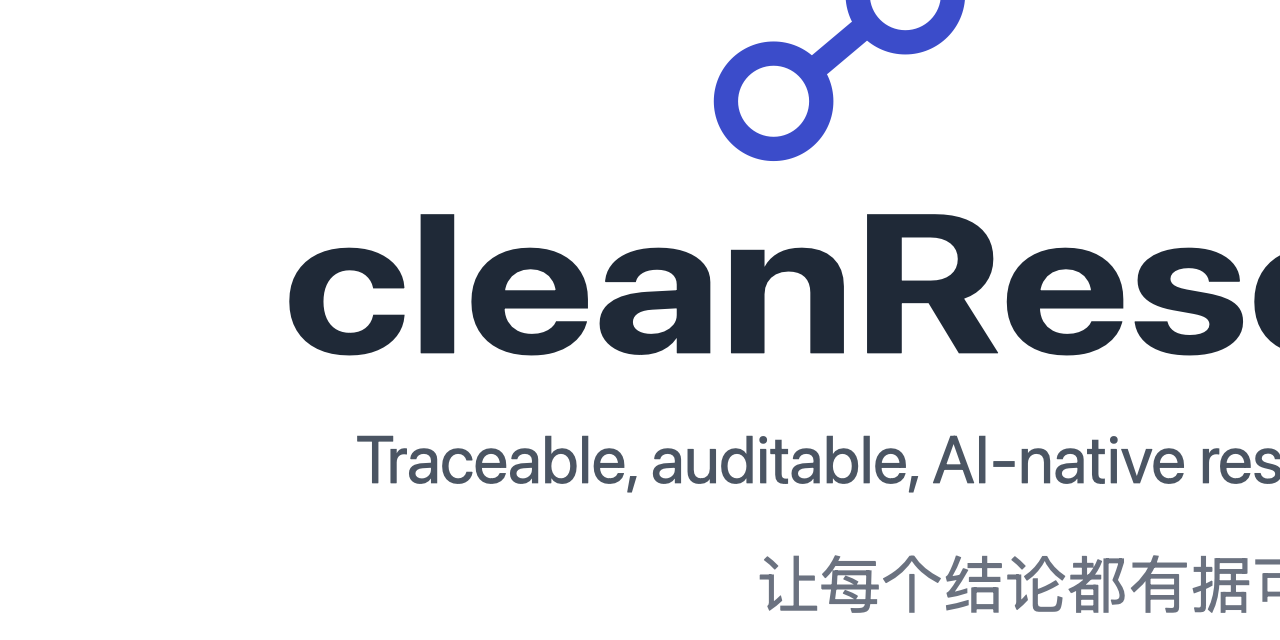
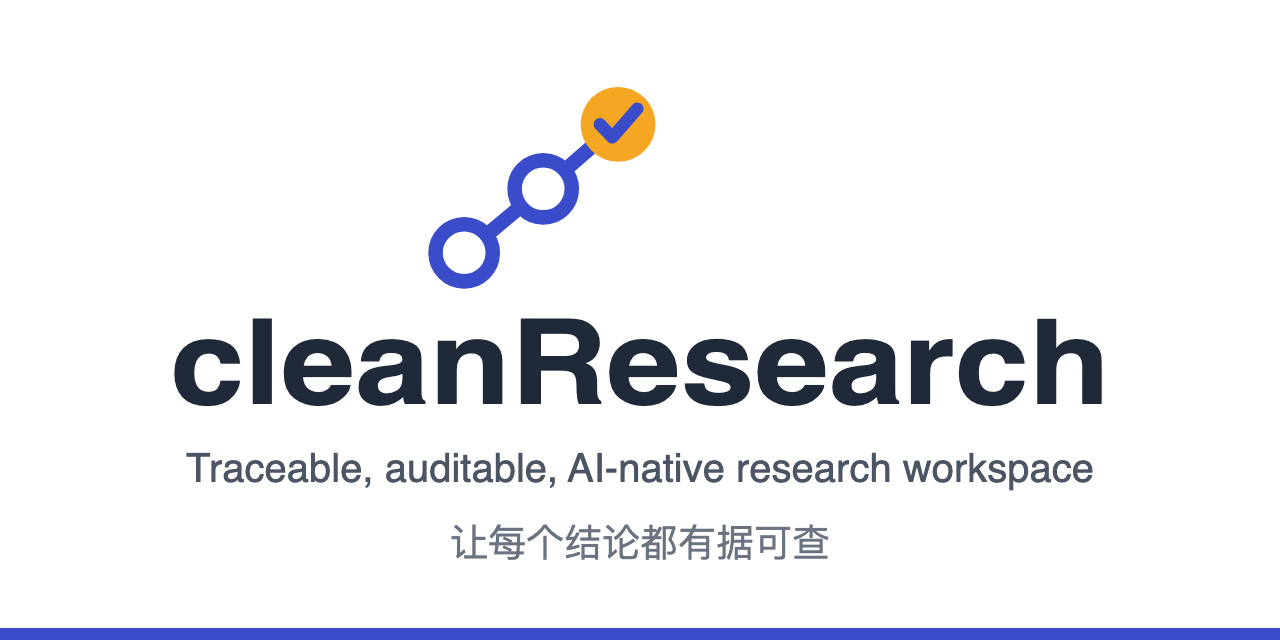
assets: 90-second demo GIF; fix social preview render; README: embed demo and Pages link

Changed region(s): [[0.125, 0.0, 1.0, 0.7812], [0.0, 0.8125, 1.0, 1.0], [0.125, 0.6875, 0.1562, 0.7188]]

diff --git a/README.zh-CN.md b/README.zh-CN.md
@@ -14,6 +14,10 @@
 
 cleanResearch（意为“干干净净做研究”）是面向 AI 的科研工作区，也是一个 GitHub 项目模板。一个文件夹对应一个研究项目。它给 AI 一套固定的项目结构，并把论文主张、研究结论、实验，以及实际运行的代码、数据和配置连成一条证据链。你判断科学问题，AI 维护文件和记录。
 
+![90 秒演示——欢迎面谈、可追溯实验、证据链、审计](assets/demo.gif)
+
+🌐 网页版介绍：[cleanResearch 主页](https://traviscao.github.io/cleanresearch/)。
+
 ## 你可能遇到过这些问题
 
 - AI 写了 30 个脚本。现在到底该用哪一个？

diff --git a/README.md b/README.md
@@ -14,6 +14,10 @@ Traceable, auditable, AI-native research.
 
 cleanResearch is an AI-native research workspace. It is a GitHub template where one folder holds one research project. It gives your AI a fixed structure and a paper trail from claim to insight to experiment to the exact code, data, and settings that produced the result. You judge the science. The AI maintains the records.
 
+![90-second demo — welcome interview, a traceable experiment, the evidence chain, and an audit](assets/demo.gif)
+
+🌐 Prefer a web page? Open the [intro page](https://traviscao.github.io/cleanresearch/).
+
 ## The pain
 
 - Your AI wrote 30 scripts. Which one is current?
